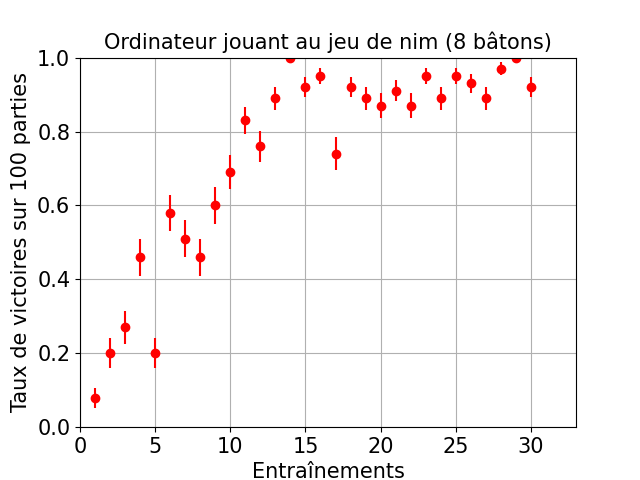
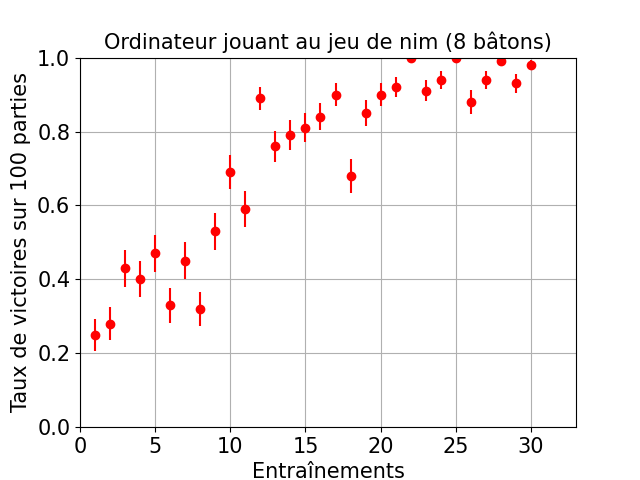
Added control over computer initial position and clever training

diff --git a/src/player.py b/src/player.py
@@ -10,7 +10,7 @@ class cup:
     def __init__(self,blue=2,yellow=2):
 
         self.blue = blue
-        self.yellow = blue
+        self.yellow = yellow
 
         return
 
@@ -31,8 +31,9 @@ class cup:
     
 class player:
 
-    def __init__(self,n_cups=8):
+    def __init__(self,n_cups=8,position="first"):
 
+        self.position = position
         self.n_cups = n_cups
         self.cups = []
         for n in range(self.n_cups):
@@ -42,12 +43,24 @@ class player:
 
 class game:
 
-    def __init__(self, computer_player : player, n_sticks=8 ) :
+    def __init__(self, computer_player : player, n_sticks=8, clever_training=False ) :
 
         self.n_sticks = n_sticks
-        self.players = ["computer","trainer"]
         self.computer = deepcopy(computer_player)
+        self.computer_position = computer_player.position
         self.played_numbers = np.zeros(self.n_sticks)
+        self.clever_training = clever_training
+
+        if self.computer_position == "first":
+            # self.players = ["computer","trainer"]
+            self.state = "computer_playing"
+        
+        elif self.computer_position == "second":
+            # self.players = ["trainer","computer"]
+            self.state = "trainer_playing"
+
+        elif self.computer_position == "random":
+            self.state = ["computer_playing","trainer_playing"][np.intc(np.random.choice(np.array([0,1])))]
 
         self.check = (self.computer.n_cups == self.n_sticks)
 
@@ -74,49 +87,94 @@ class game:
     def trainer_turn(self):
         played = np.random.choice(np.array([1,2]))
         # print(f"\n Trainer : {played} \n")
+        self.remove_sticks(played)
+
+        if self.n_sticks > 1:
+            self.state = "computer_playing"
+
+        elif self.n_sticks == 1:
+            self.state = "finished"
+            self.winner = "computer"
+
+        else:
+            self.state = "finished"
+            self.winner = "trainer"
+
         return played
     
     def clever_trainer_turn(self):
 
         if self.n_sticks%3 !=0 :
-            played = self.n_sticks%3
+            # played = self.n_sticks%3
+            best_play = self.n_sticks%3
+            possible_plays = np.concatenate((np.array([best_play]),np.arange(1,3)[np.arange(1,3)!=best_play]))
+            played = np.random.choice(possible_plays,p=np.array([0.9,0.1])) # The trainer must be able to make a mistake, otherwise winrate == 0
         else:
             played = np.random.choice(np.array([1,2]))
+
+        self.remove_sticks(played)
+
+        if self.n_sticks > 1:
+            self.state = "computer_playing"
+
+        elif self.n_sticks == 1:
+            self.state = "finished"
+            self.winner = "computer"
+
+        else:
+            self.state = "finished"
+            self.winner = "trainer"
 
         return played
     
     def computer_turn(self):
         played = self.computer.cups[self.n_sticks-1].play()
         # print(f"\n Computer : {played}")
+        self.remove_sticks(played)
+
+        if self.n_sticks > 1:
+            self.state = "trainer_playing"
+
+        elif self.n_sticks == 1:
+            self.state = "finished"
+            self.winner = "trainer"
+
+        else:
+            self.state = "finished"
+            self.winner = "computer"
+
         return played
 
     def play_game(self) -> list[player,str]:
 
-        turn = 0
+        # turn = 0
 
-        while self.n_sticks > 0:
+        while self.state != "finished":
 
-            current_player = self.players[turn%2]
+            # current_player = self.players[turn%2]
 
-            if current_player == "trainer":
-                n_played = self.clever_trainer_turn()
+            if self.state == "trainer_playing":
+                if self.clever_training:
+                    n_played = self.clever_trainer_turn()
+                else:
+                    n_played = self.trainer_turn()
 
-            elif current_player == "computer":
+            elif self.state == "computer_playing":
                 n_played = self.computer_turn()
-                self.played_numbers[self.n_sticks-1] = n_played
+                self.played_numbers[self.n_sticks-1+n_played] = n_played # The update needs to be made at the state before the computer played
 
             if not self.suited_play(n_played):
                 raise ValueError("CHEATER")
 
-            self.remove_sticks(n_played)
+            # self.remove_sticks(n_played)
 
-            turn += 1
+            # turn += 1
 
-        winner = self.players[(turn-1)%2]
+        # winner = self.players[(turn-1)%2]
         new_computer = self.computer
         self.played_numbers = np.intc(self.played_numbers)
 
-        if winner == "computer":
+        if self.winner == "computer":
 
             for i in range(len(self.played_numbers)):
 
@@ -144,12 +202,12 @@ class game:
                 if new_computer.cups[i].blue + new_computer.cups[i].yellow == 0:
                     new_computer.cups[i].reset()
 
-        return [new_computer,winner]
+        return [new_computer,self.winner]
     
     
-def train(n_trains:int, n_sticks:int, show_progressbar=True, saveplayer=True) -> list[player,float]:
+def train(n_trains:int, n_sticks:int, position = "first", clever_training=False, show_progressbar=True, saveplayer=True) -> list[player,float]:
 
-    training_player = player(n_cups=n_sticks)
+    training_player = player(n_cups=n_sticks,position=position)
     wins = 0
 
     widgets = [
@@ -166,7 +224,7 @@ def train(n_trains:int, n_sticks:int, show_progressbar=True, saveplayer=True) ->
 
     for n in range(n_trains):
 
-        new_game = game(computer_player=training_player,n_sticks=n_sticks)
+        new_game = game(computer_player=training_player,n_sticks=n_sticks,clever_training=clever_training)
         training_player, winner = new_game.play_game()
 
         if winner == "computer":
@@ -207,7 +265,7 @@ def train(n_trains:int, n_sticks:int, show_progressbar=True, saveplayer=True) ->
 
     if saveplayer:
 
-        with open(f"nn_saves/sticks{n_sticks}_trains{n_trains}.pkl","wb") as f:
+        with open(f"nn_saves/sticks{n_sticks}_trains{n_trains}_position_{position}_clever_training_{clever_training}.pkl","wb") as f:
             pickle.dump(training_player,f)
 
     return [training_player,winrate]

diff --git a/GUI/training_GUI.py b/GUI/training_GUI.py
@@ -12,6 +12,8 @@ from PyQt6.QtWidgets import (
     QSlider,
     QLineEdit,
     QProgressBar,
+    QCheckBox,
+    QComboBox,
     QPushButton
 )
 
@@ -24,12 +26,14 @@ class TrainingWindow(QMainWindow):
         self.text = self.language.training_NN_GUI_text
 
         self.setFixedSize(QSize(500,500))
-        self.setStyleSheet("font-size : 25px")
+        self.setStyleSheet("font-size : 20px")
         self.setWindowTitle(self.text["window_title"])
         layout = QVBoxLayout()
 
         self.n_sticks = 4
         self.n_trains = 1
+        self.clever_training = False
+        self.computer_position = "random"
 
         self.n_sticks_label = QLabel(f"{self.text["n_sticks"]} : {self.n_sticks}")
         layout.addWidget(self.n_sticks_label)
@@ -49,6 +53,19 @@ class TrainingWindow(QMainWindow):
         self.n_trains_slider.valueChanged.connect(self.n_trains_select)
         layout.addWidget(self.n_trains_slider)
 
+        self.computer_position_label = QLabel(f"{self.text["computer_position"]}")
+        layout.addWidget(self.computer_position_label)
+
+        self.computer_position_box = QComboBox()
+        self.computer_position_box.addItems([self.text["random"],self.text["first"],self.text["second"]])
+        self.computer_position_box.currentIndexChanged.connect(self.computer_position_select)
+        layout.addWidget(self.computer_position_box)
+
+        self.clever_training_checkbox = QCheckBox(text=self.text["clever_training"])
+        self.clever_training_checkbox.setCheckState(Qt.CheckState.Unchecked)
+        self.clever_training_checkbox.stateChanged.connect(self.clever_training_select)
+        layout.addWidget(self.clever_training_checkbox)
+
         self.run_training_button = QPushButton(self.text["run_training"])
         self.run_training_button.clicked.connect(self.run_training)
         layout.addWidget(self.run_training_button)
@@ -67,8 +84,16 @@ class TrainingWindow(QMainWindow):
         self.n_trains_label.setText(f"{self.text["n_trains"]} : {self.n_trains}")
         return 
     
+    def computer_position_select(self,i:int):
+        self.computer_position = ["random","first","second"][i]
+        return
+    
+    def clever_training_select(self,s:str):
+        self.clever_training = (s == Qt.CheckState.Checked.value)
+        return
+    
     def run_training(self):
-        train(self.n_trains,n_sticks = self.n_sticks)
+        train(self.n_trains, n_sticks=self.n_sticks, position=self.computer_position, clever_training=self.clever_training)
         return
 
 def run_training(language):

diff --git a/src/nim.py b/src/nim.py
@@ -9,11 +9,21 @@ class nim_game:
 
         self.computer = computer_player
         self.n_sticks = self.computer.n_cups
-        self.players = ["computer","player"]
-        self.state = "computer_playing"
+        # self.state = "computer_playing"
         self.played_numbers = np.zeros(self.n_sticks)
 
         self.check = (self.computer.n_cups == self.n_sticks)
+
+        if self.computer.position == "first":
+            # self.players = ["computer","trainer"]
+            self.state = "computer_playing"
+        
+        elif self.computer.position == "second":
+            # self.players = ["trainer","computer"]
+            self.state = "player_playing"
+
+        elif self.computer.position == "random":
+            self.state = ["computer_playing","player_playing"][np.intc(np.random.choice(np.array([0,1])))]
 
         if self.check:
             pass

diff --git a/texts/english.py b/texts/english.py
@@ -16,8 +16,11 @@ nim_game_GUI_text = {
 training_NN_GUI_text = {
     "window_title":"Training neural network",
     "n_sticks":"Number of sticks in the nim game",
-    "n_max":"Max number of removed sticks per turn",
     "n_trains":"Number of training steps",
-    "games_per_step":"Number of games at each step",
+    "computer_position":"Computer Position",
+    "first":"First",
+    "second":"Second",
+    "random":"Random",
+    "clever_training":"Clever Training",
     "run_training":"Run training"
 }

diff --git a/GUI/nim_against_nn_GUI.py b/GUI/nim_against_nn_GUI.py
@@ -81,11 +81,10 @@ class GameWindow(QMainWindow):
         print(self.game.state)
 
         if self.game.state == "player_playing":
-            self.computer_play_button.setEnabled(False)
+            self.switch_computer_to_player()
 
         elif self.game.state == "computer_playing":
-            self.validate_play_button.setEnabled(False)
-            self.played_number_box.setEnabled(False)
+            self.switch_player_to_computer()
 
         return
 

diff --git a/texts/francais.py b/texts/francais.py
@@ -17,7 +17,7 @@ training_NN_GUI_text = {
     "window_title":"Entraînement du réseau de neurones",
     "n_sticks":"Nombre de bâtons dans le jeu",
     "n_max":"Nombre maximum de bâtons enlevés par tour",
-    "n_trains":"Nombre d'entraînemens",
+    "n_trains":"Nombre d'entraînements",
     "games_per_step":"Parties jouées par étape",
     "run_training":"Entraîner"
 }

diff --git a/game.py b/game.py
@@ -6,7 +6,7 @@ import pickle
 
 # if __name__=="__main":
 
-with open("nn_saves/sticks8_trains100.pkl","rb") as f:
+with open("nn_saves/sticks8_trains100_position_random_clever_training_False.pkl","rb") as f:
     computer_player = pickle.load(f)
 
 game = nim_game(computer_player=computer_player)

diff --git a/train.py b/train.py
@@ -4,4 +4,4 @@ from texts import english, francais
 
 if __name__=='__main__':
 
-    run_training(language=francais)
+    run_training(language=english)
